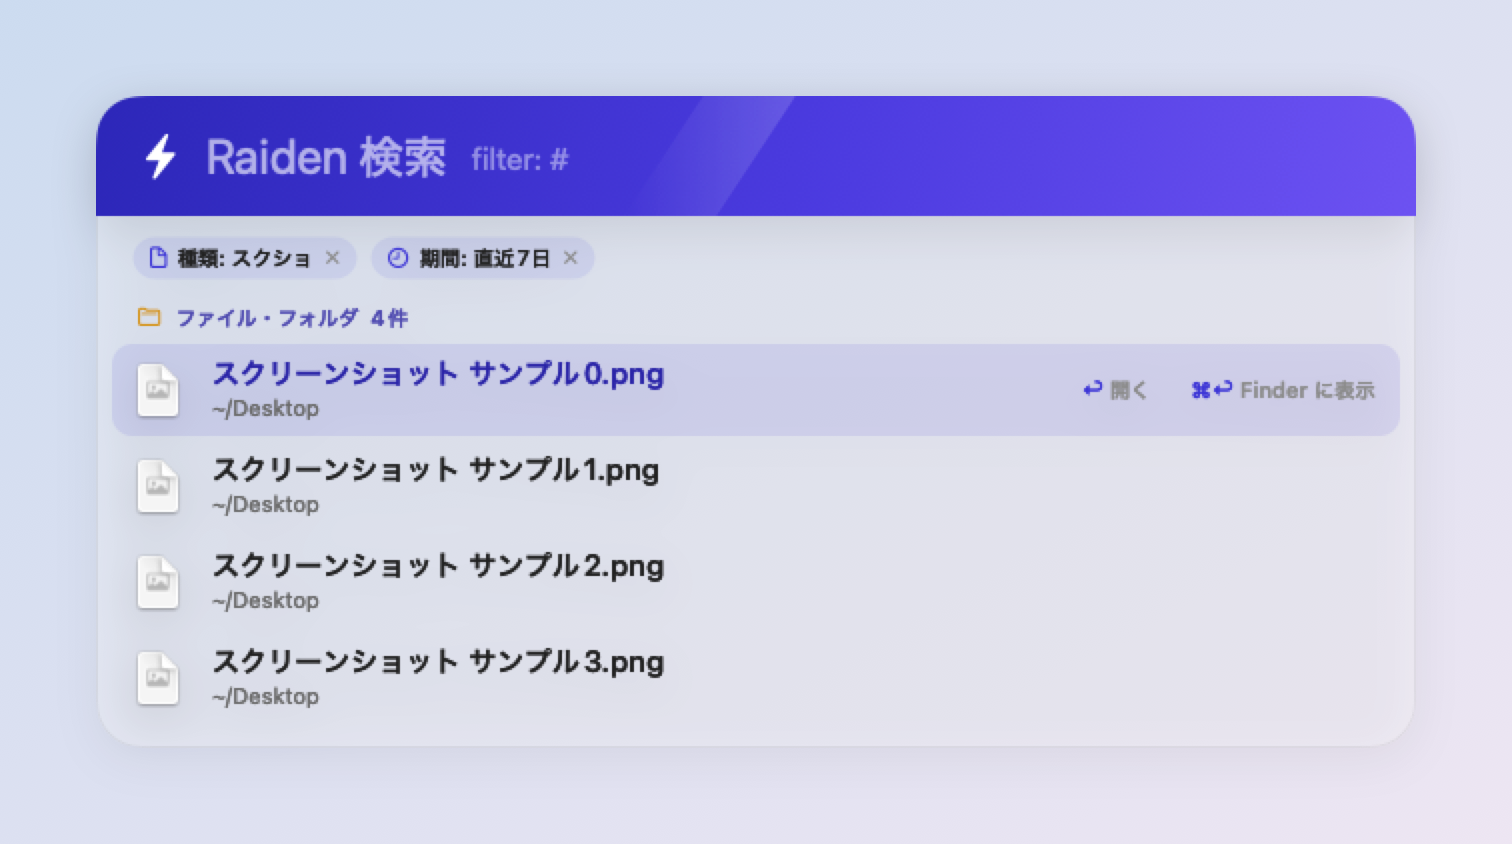
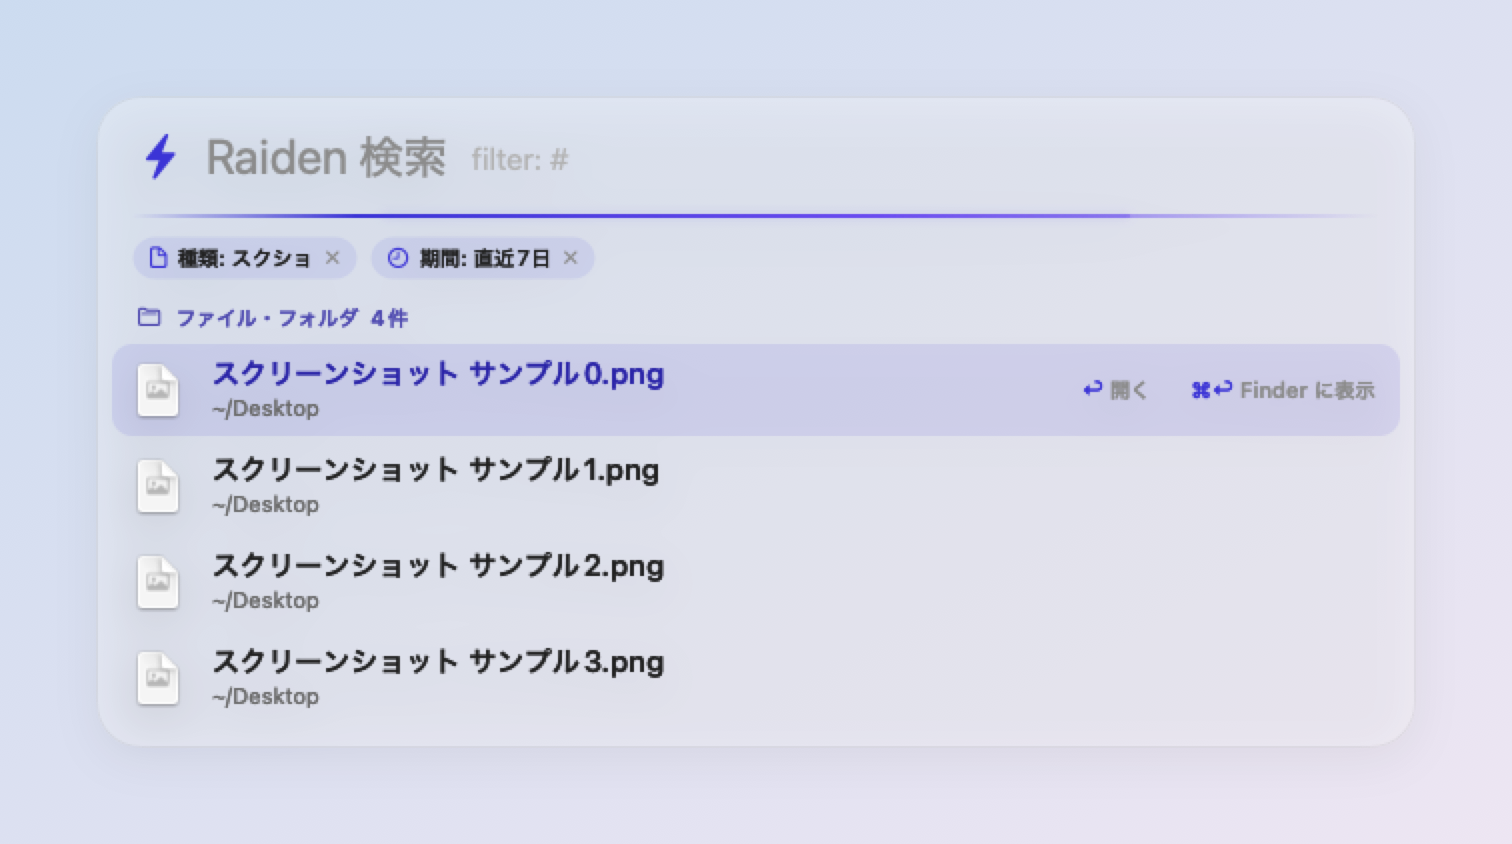
見た目を A 案（雷光）にする: 藍の帯をやめ、入力欄の下に光る藍の線、藍の稲妻・カーソル・変換中の下線、文字は濃いグレーに戻す

Changed region(s): [[0.0622, 0.0924, 0.9636, 0.2773], [0.0933, 0.3697, 0.1243, 0.4005]]

diff --git a/app/Sources/Raiden/SearchPanel.swift b/app/Sources/Raiden/SearchPanel.swift
@@ -22,18 +22,12 @@ enum PanelStyle {
     static var veil: NSColor { NSColor(white: 1, alpha: CGFloat(0.75 * (1 - transparency))) }
     /// これ以上透けさせるときはガラスを .clear にする
     static let clearGlassAbove = 0.75
-    /// Raiden の色（アイコンの稲妻の藍と、火花の金）
+    /// Raiden の色（アイコンの稲妻の藍）
     static let indigo = NSColor(srgbRed: 0.231, green: 0.204, blue: 0.839, alpha: 1)      // #3B34D6
     static let indigoDeep = NSColor(srgbRed: 0.165, green: 0.141, blue: 0.659, alpha: 1)  // #2A24A8 選んだ行の名前
     static let indigoLabel = NSColor(srgbRed: 0.31, green: 0.29, blue: 0.69, alpha: 1)    // 節の見出し
-    static let gold = NSColor(srgbRed: 0.914, green: 0.698, blue: 0.227, alpha: 1)        // #E9B23A カーソル
-    static let goldDeep = NSColor(srgbRed: 0.84, green: 0.58, blue: 0.10, alpha: 1)       // 白の上の金（見出しの印）
-    /// 入力欄の帯の上の文字
-    static let onBand = NSColor.white
-    static let onBandFaint = NSColor(white: 1, alpha: 0.95)
-    static let onBandFainter = NSColor(white: 1, alpha: 0.8)
-    /// 帯の濃さ: 1 − 0.5 × 透け具合（0 で不透明、既定 0.6 で 0.7、0.9 で 0.55）。後ろのガラスが透けて見える
-    static var bandAlpha: CGFloat { CGFloat(1 - 0.5 * transparency) }
+    /// 入力欄のカーソル・変換中の下線（藍）
+    static let caret = indigo
     static let selection = NSColor(srgbRed: 0.231, green: 0.204, blue: 0.839, alpha: 0.10)
     /// 絞り込みの札（効いている物）の面
     static let pillFill = NSColor(srgbRed: 0.231, green: 0.204, blue: 0.839, alpha: 0.09)
@@ -59,29 +53,29 @@ final class VeilView: NSView {
     }
 }
 
-/// 入力欄の帯（藍のグラデーションに斜めの光）。上の角はパネルの切り抜きで丸くなる
-final class BandView: NSView {
+/// 入力欄の下の光る藍の線（両端は消えていく。藍から紫へ、薄い光をまとう）
+final class GlowLineView: NSView {
     override func draw(_ dirtyRect: NSRect) {
-        let a = PanelStyle.bandAlpha
-        let g = NSGradient(colors: [NSColor(srgbRed: 0.173, green: 0.153, blue: 0.722, alpha: a),   // #2C27B8
-                                    NSColor(srgbRed: 0.294, green: 0.231, blue: 0.878, alpha: a),   // #4B3BE0
-                                    NSColor(srgbRed: 0.424, green: 0.322, blue: 0.949, alpha: a)],  // #6C52F2
-                           atLocations: [0, 0.55, 1], colorSpace: .sRGB)
-        g?.draw(in: bounds, angle: -8)
-        // 斜めの光の筋（稲光）
-        let w = bounds.width, h = bounds.height
-        let sheen = NSBezierPath()
-        sheen.move(to: NSPoint(x: w * 0.40, y: 0)); sheen.line(to: NSPoint(x: w * 0.47, y: 0))
-        sheen.line(to: NSPoint(x: w * 0.53, y: h)); sheen.line(to: NSPoint(x: w * 0.46, y: h)); sheen.close()
+        let line = NSRect(x: 0, y: bounds.midY - 1, width: bounds.width, height: 2)
+        let g = NSGradient(colorsAndLocations:
+            (NSColor(srgbRed: 0.231, green: 0.204, blue: 0.839, alpha: 0), 0),
+            (NSColor(srgbRed: 0.231, green: 0.204, blue: 0.839, alpha: 1), 0.18),
+            (NSColor(srgbRed: 0.416, green: 0.298, blue: 0.941, alpha: 1), 0.6),
+            (NSColor(srgbRed: 0.416, green: 0.298, blue: 0.941, alpha: 0), 1))
         NSGraphicsContext.saveGraphicsState()
-        sheen.addClip()
-        NSGradient(starting: NSColor(white: 1, alpha: 0), ending: NSColor(white: 1, alpha: 0.16))?
-            .draw(in: NSRect(x: w * 0.40, y: 0, width: w * 0.13, height: h), angle: 0)
+        let sh = NSShadow()
+        sh.shadowColor = NSColor(srgbRed: 0.35, green: 0.27, blue: 0.94, alpha: 0.55)
+        sh.shadowBlurRadius = 5
+        sh.shadowOffset = .zero
+        sh.set()
+        NSColor(srgbRed: 0.33, green: 0.25, blue: 0.9, alpha: 0.35).setFill()
+        NSBezierPath(roundedRect: line.insetBy(dx: bounds.width * 0.2, dy: 0), xRadius: 1, yRadius: 1).fill()
         NSGraphicsContext.restoreGraphicsState()
+        g?.draw(in: NSBezierPath(roundedRect: line, xRadius: 1, yRadius: 1), angle: 0)
     }
 }
 
-/// 帯の上の入力欄の編集部品。変換中の文字の下線を白にする（日本語入力が付ける線の太さはそのまま、色だけ変える）
+/// 入力欄の編集部品。変換中の文字の下線を藍にする（日本語入力が付ける線の太さはそのまま、色だけ変える）
 final class BandFieldEditor: NSTextView {
     override func setMarkedText(_ string: Any, selectedRange: NSRange, replacementRange: NSRange) {
         let m: NSMutableAttributedString
@@ -92,7 +86,7 @@ final class BandFieldEditor: NSTextView {
             var hasLine = false
             m.enumerateAttribute(.underlineStyle, in: all) { v, _, _ in if v != nil { hasLine = true } }
             if !hasLine { m.addAttribute(.underlineStyle, value: NSUnderlineStyle.single.rawValue, range: all) }
-            m.addAttribute(.underlineColor, value: PanelStyle.onBand, range: all)
+            m.addAttribute(.underlineColor, value: PanelStyle.caret, range: all)
         }
         super.setMarkedText(m, selectedRange: selectedRange, replacementRange: replacementRange)
     }
@@ -207,7 +201,7 @@ final class LabelLine: NSView {
     init(_ text: String, symbol name: String, detail: String? = nil, big: Bool = false) {
         super.init(frame: .zero)
         let glyph = NSImageView(image: symbol(name, size: big ? 15 : 10, weight: .semibold) ?? NSImage())
-        glyph.contentTintColor = big ? PanelStyle.subText : PanelStyle.goldDeep
+        glyph.contentTintColor = big ? PanelStyle.subText : PanelStyle.indigoLabel
         let label = NSTextField(labelWithString: text)
         label.font = big ? .systemFont(ofSize: 14, weight: .semibold) : .systemFont(ofSize: 11, weight: .semibold)
         label.textColor = big ? PanelStyle.text : PanelStyle.indigoLabel
@@ -373,7 +367,7 @@ final class SearchPanelController: NSObject, NSTextFieldDelegate, NSWindowDelega
     private var heightConstraint: NSLayoutConstraint!
     private var glassView: NSView?
     private var veilView: VeilView?
-    private var bandView: BandView?
+    private var glowLine: GlowLineView?
     /// 入力欄の左の稲妻（# を打ったら光らせる）
     private var boltView: NSImageView?
     /// 前に見た入力欄の # の数（増えたら光らせる）
@@ -457,27 +451,24 @@ final class SearchPanelController: NSObject, NSTextFieldDelegate, NSWindowDelega
 
         let glyph = NSImageView(image: symbol("bolt.fill", size: 20, weight: .semibold) ?? NSImage())
         boltView = glyph
-        glyph.contentTintColor = PanelStyle.onBand
+        glyph.contentTintColor = PanelStyle.indigo
         field.isBordered = false
         field.drawsBackground = false
         field.focusRingType = .none
         field.font = .systemFont(ofSize: 24, weight: .regular)
-        field.textColor = PanelStyle.onBand
+        field.textColor = PanelStyle.text
         // 入力欄が空のときの案内文: 「Raiden 検索」は薄いグレー、「filter: #」は # の使い方の手がかりとしてさらに薄く小さく
         field.placeholderAttributedString = Self.defaultPlaceholder
         field.delegate = self
         field.cell?.usesSingleLineMode = true
-        // 帯が透けても文字が沈まないよう、帯の上の物に濃い藍の薄い影を付ける（帯の色は変えない）
-        for v in [field, glyph, status, statusIcon] as [NSView] {
-            v.wantsLayer = true
-            v.layer?.shadowColor = NSColor(srgbRed: 0.10, green: 0.08, blue: 0.40, alpha: 1).cgColor
-            v.layer?.shadowOpacity = 0.45
-            v.layer?.shadowRadius = 2
-            v.layer?.shadowOffset = CGSize(width: 0, height: -0.5)
-        }
-        statusIcon.contentTintColor = PanelStyle.onBandFaint
+        // 稲妻の光（# を打ったとき）に使う影。ふだんは見えない
+        glyph.wantsLayer = true
+        glyph.layer?.shadowColor = PanelStyle.indigo.cgColor
+        glyph.layer?.shadowOpacity = 0
+        glyph.layer?.shadowOffset = .zero
+        statusIcon.contentTintColor = PanelStyle.faint
         status.font = .systemFont(ofSize: 12)
-        status.textColor = PanelStyle.onBandFaint
+        status.textColor = PanelStyle.subText
         status.alignment = .right
         let sep = HairlineView()
         for st in [stack, topStack] {
@@ -491,9 +482,9 @@ final class SearchPanelController: NSObject, NSTextFieldDelegate, NSWindowDelega
     /// 入力欄が空のときの案内文: 「Raiden 検索」は薄いグレー、「filter: #」は # の使い方の手がかりとしてさらに薄く小さく
     static var defaultPlaceholder: NSAttributedString {
         let ph = NSMutableAttributedString(string: "Raiden 検索", attributes: [
-            .foregroundColor: PanelStyle.onBandFaint, .font: NSFont.systemFont(ofSize: 24, weight: .medium)])
+            .foregroundColor: PanelStyle.faint, .font: NSFont.systemFont(ofSize: 24)])
         ph.append(NSAttributedString(string: "   filter: #", attributes: [
-            .foregroundColor: PanelStyle.onBandFainter, .font: NSFont.systemFont(ofSize: 15, weight: .medium),
+            .foregroundColor: NSColor(white: 0.70, alpha: 1), .font: NSFont.systemFont(ofSize: 15),
             .baselineOffset: 2]))
         return ph
     }
@@ -502,7 +493,7 @@ final class SearchPanelController: NSObject, NSTextFieldDelegate, NSWindowDelega
     func setPlaceholder(_ text: String?) {
         guard let text else { field.placeholderAttributedString = Self.defaultPlaceholder; return }
         field.placeholderAttributedString = NSAttributedString(string: text, attributes: [
-            .foregroundColor: PanelStyle.onBandFaint, .font: NSFont.systemFont(ofSize: 24)])
+            .foregroundColor: PanelStyle.faint, .font: NSFont.systemFont(ofSize: 24)])
     }
 
     private func setupList(sep: HairlineView, glyph: NSImageView) {
@@ -532,10 +523,10 @@ final class SearchPanelController: NSObject, NSTextFieldDelegate, NSWindowDelega
         NotificationCenter.default.addObserver(self, selector: #selector(listScrolled(_:)),
                                                name: NSView.boundsDidChangeNotification, object: scroll.contentView)
 
-        let band = BandView()
-        bandView = band
-        sep.isHidden = true   // 帯の下端が区切りになる
-        for v in [veil, band, glyph, field, statusIcon, status, sep, topStack, scroll] as [NSView] {
+        let glow = GlowLineView()
+        glowLine = glow
+        sep.isHidden = true   // 区切りは光る線
+        for v in [veil, glow, glyph, field, statusIcon, status, sep, topStack, scroll] as [NSView] {
             v.translatesAutoresizingMaskIntoConstraints = false
             content.addSubview(v)
         }
@@ -544,8 +535,8 @@ final class SearchPanelController: NSObject, NSTextFieldDelegate, NSWindowDelega
         NSLayoutConstraint.activate([
             veil.topAnchor.constraint(equalTo: content.topAnchor), veil.bottomAnchor.constraint(equalTo: content.bottomAnchor),
             veil.leadingAnchor.constraint(equalTo: content.leadingAnchor), veil.trailingAnchor.constraint(equalTo: content.trailingAnchor),
-            band.topAnchor.constraint(equalTo: content.topAnchor), band.heightAnchor.constraint(equalToConstant: Self.fieldHeight),
-            band.leadingAnchor.constraint(equalTo: content.leadingAnchor), band.trailingAnchor.constraint(equalTo: content.trailingAnchor),
+            glow.centerYAnchor.constraint(equalTo: content.topAnchor, constant: Self.fieldHeight), glow.heightAnchor.constraint(equalToConstant: 14),
+            glow.leadingAnchor.constraint(equalTo: content.leadingAnchor, constant: 18), glow.trailingAnchor.constraint(equalTo: content.trailingAnchor, constant: -18),
             glyph.leadingAnchor.constraint(equalTo: content.leadingAnchor, constant: 22),
             glyph.centerYAnchor.constraint(equalTo: content.topAnchor, constant: Self.fieldHeight / 2),
             field.leadingAnchor.constraint(equalTo: glyph.trailingAnchor, constant: 12),
@@ -602,7 +593,6 @@ final class SearchPanelController: NSObject, NSTextFieldDelegate, NSWindowDelega
         }
         effectView?.material = t >= 0.5 ? .underWindowBackground : .popover
         veilView?.needsDisplay = true
-        bandView?.needsDisplay = true
     }
 
     /// クリップボードの履歴の状態で出す（専用のキー）。出ていれば履歴の状態に切り替える
@@ -1030,18 +1020,18 @@ final class SearchPanelController: NSObject, NSTextFieldDelegate, NSWindowDelega
         lastHashCount = field.stringValue.reduce(0) { $0 + ($1 == "#" || $1 == "＃" ? 1 : 0) }
     }
 
-    /// 稲妻をピカッと光らせる（0.9 秒）。稲妻の白い光が広がって消え、印が大きくなって戻る。
+    /// 稲妻をピカッと光らせる（0.9 秒）。稲妻のまわりに藍の光が広がって消え、印が大きくなって戻る。
     /// 「視差効果を減らす」がオンなら大きさは変えず光だけ
     func flashBolt() {
         guard let v = boltView, let l = v.layer else { return }
         let dur = 0.9
         let glow = CAAnimationGroup()
         let color = CABasicAnimation(keyPath: "shadowColor")
-        color.fromValue = NSColor.white.cgColor; color.toValue = NSColor.white.cgColor
+        color.fromValue = PanelStyle.indigo.cgColor; color.toValue = PanelStyle.indigo.cgColor
         let radius = CAKeyframeAnimation(keyPath: "shadowRadius")
         radius.values = [2, 20, 16, 4]; radius.keyTimes = [0, 0.15, 0.45, 1]
         let opacity = CAKeyframeAnimation(keyPath: "shadowOpacity")
-        opacity.values = [0.45, 1, 1, 0]; opacity.keyTimes = [0, 0.12, 0.45, 1]
+        opacity.values = [0, 0.9, 0.9, 0]; opacity.keyTimes = [0, 0.12, 0.45, 1]
         var parts: [CAAnimation] = [color, radius, opacity]
         if !NSWorkspace.shared.accessibilityDisplayShouldReduceMotion {
             // 層の基準点は左下なので、真ん中を中心に大きくする
@@ -1089,14 +1079,13 @@ final class SearchPanelController: NSObject, NSTextFieldDelegate, NSWindowDelega
 
     func windowDidResignKey(_ notification: Notification) { hide() }
 
-    /// 入力欄の編集部品。帯の上なのでカーソルは白、選んだ文字は白く透かす
+    /// 入力欄の編集部品。カーソルと変換中の下線は藍
     private lazy var bandEditor: NSTextView = {
         let tv = BandFieldEditor()
         tv.isFieldEditor = true
-        tv.insertionPointColor = PanelStyle.onBand
-        tv.selectedTextAttributes = [.backgroundColor: NSColor(white: 1, alpha: 0.28), .foregroundColor: PanelStyle.onBand]
-        tv.markedTextAttributes = [.underlineStyle: NSUnderlineStyle.single.rawValue, .underlineColor: PanelStyle.onBand,
-                                   .foregroundColor: PanelStyle.onBand]
+        tv.insertionPointColor = PanelStyle.caret
+        tv.selectedTextAttributes = [.backgroundColor: NSColor(srgbRed: 0.231, green: 0.204, blue: 0.839, alpha: 0.18)]
+        tv.markedTextAttributes = [.underlineStyle: NSUnderlineStyle.single.rawValue, .underlineColor: PanelStyle.caret]
         return tv
     }()
 

diff --git a/app/Sources/Raiden/FilterUI.swift b/app/Sources/Raiden/FilterUI.swift
@@ -44,7 +44,7 @@ final class FilterInput {
         self.panel = panel
         self.field = field
         ghostLabel.font = field.font
-        ghostLabel.textColor = NSColor(white: 1, alpha: 0.58)   // 打った文字（白）と見分けられる薄さ
+        ghostLabel.textColor = NSColor(white: 0.62, alpha: 1)
         ghostLabel.lineBreakMode = .byClipping
         ghostLabel.isHidden = true
         content.addSubview(ghostLabel)
